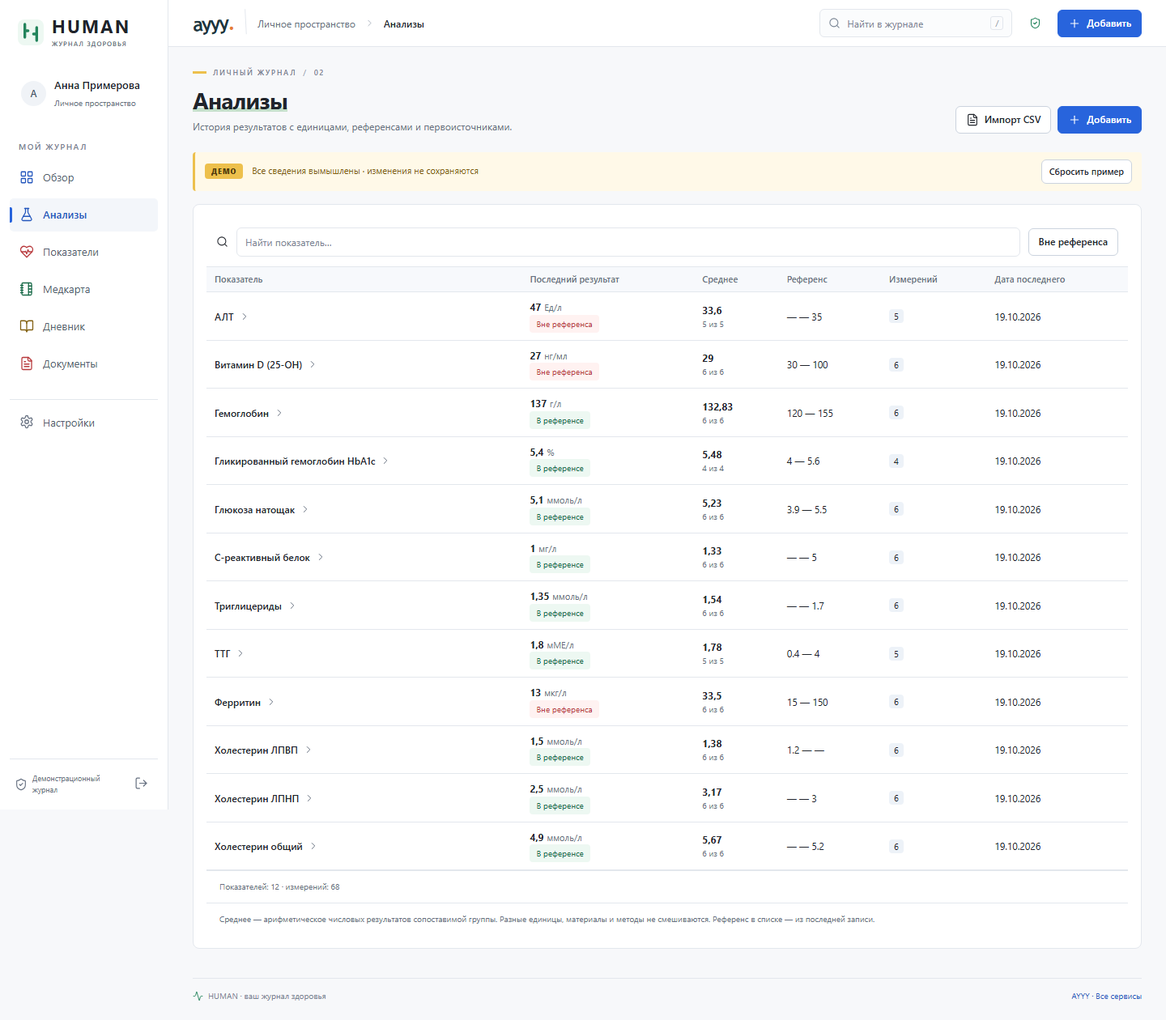
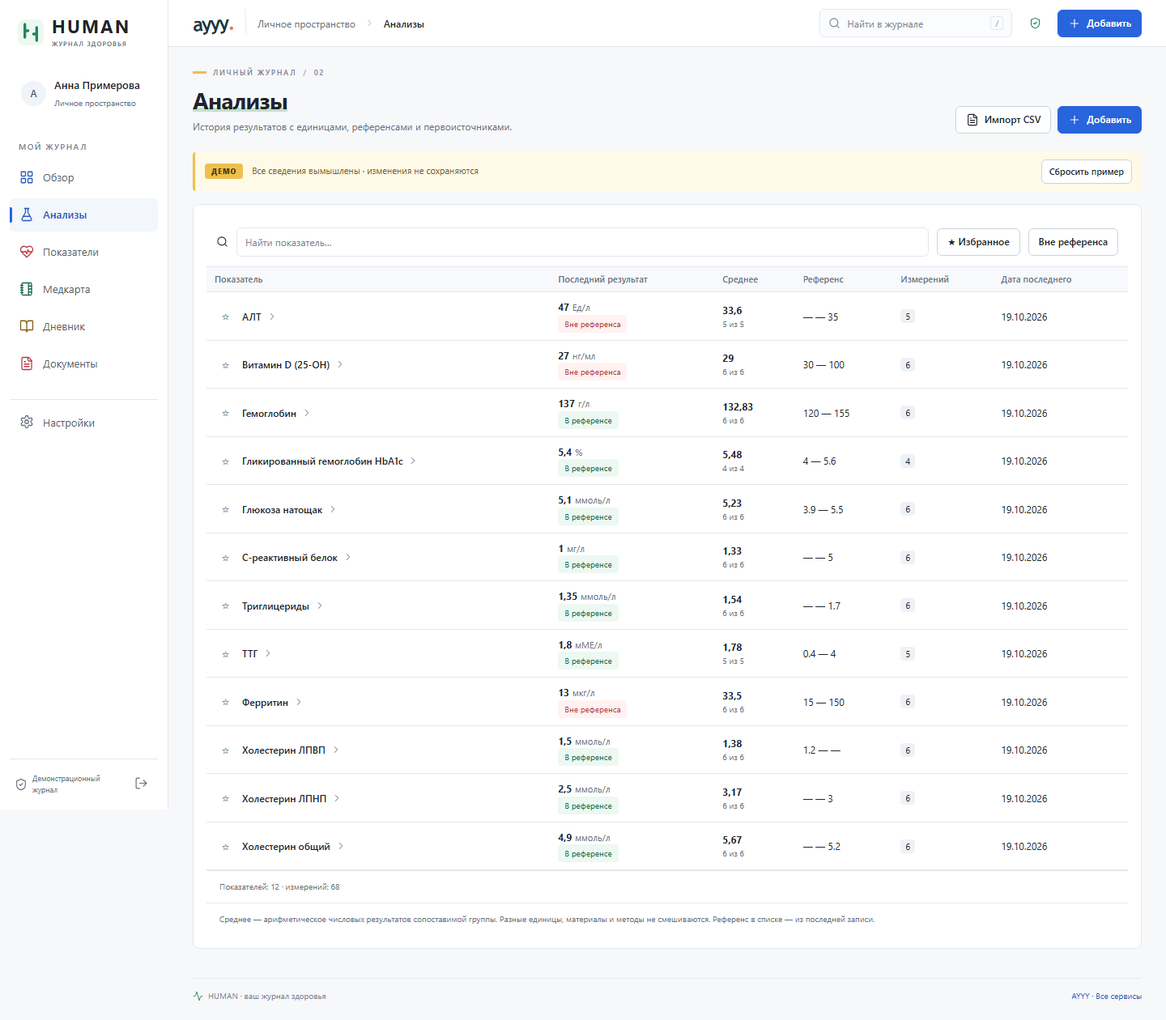
feat(health): persist analyte preferences and preserve partial source results

diff --git a/health/view.js b/health/view.js
@@ -58,7 +58,9 @@
       kind==='normal'?'В референсе':kind==='abnormal'?'Вне референса':'Без оценки');
   }
   function date(value){
-    if(!value)return '—';
+    if(!value)return 'Дата неизвестна';
+    if(/^\d{4}$/.test(value))return value+' г.';
+    if(/^\d{4}-\d{2}$/.test(value))return value.slice(5)+'.'+value.slice(0,4);
     if(!/^\d{4}-\d\d-\d\d$/.test(value))return value;
     const parsed=new Date(value+'T12:00:00');
     return Number.isNaN(+parsed)?value:parsed.toLocaleDateString('ru-RU');
@@ -93,7 +95,7 @@
       button('Удалить','remove',{class:'small danger','data-kind':kind,'data-id':item.id}));
   }
   function stats(state){
-    const d=state.doc,groups=M.groups(d.observations);
+    const d=state.doc,groups=M.groups(d.observations,d.analytePreferences);
     const overview=h('div',{});
     overview.append(title('Обзор здоровья','Показатели, документы и события — всё под рукой.'));
     overview.append(h('div',{class:'diary-overview'},
@@ -124,7 +126,7 @@
     if(!d.observations.length)recent.append(empty('Пока нет лабораторных данных','new-lab'));
     const attention=card('Требует внимания');attention.classList.add('overview-attention','tone-red');
     const abnormal=groups.filter(x=>x.status==='abnormal');
-    for(const g of abnormal.slice(0,3))attention.append(h('button',{class:'data-row','data-action':'open-group','data-key':g.key},h('span',{class:'attention-icon'},icon('Activity',16)),h('div',{},h('strong',{},g.name),h('small',{},date(g.latest.date))),h('div',{class:'row-result'},status(g.latest),h('strong',{},g.latest.value,h('small',{class:'unit'},g.unit)))));
+    for(const g of abnormal.slice(0,3))attention.append(h('button',{class:'data-row','data-action':'open-group','data-key':g.key},h('span',{class:'attention-icon'},icon('Activity',16)),h('div',{},h('strong',{},g.name),h('small',{},date(g.latest.date))),h('div',{class:'row-result'},status(g.effectiveLatest),h('strong',{},g.latest.value,h('small',{class:'unit'},g.unit)))));
     if(!abnormal.length)attention.append(empty('Нет записей, отмеченных по введённым референсам.'));
     attention.append(h('p',{class:'table-caption'},'Значения за пределами референсов, сохранённых вместе с результатами. Это не диагноз.'));
     const events=card('Последние события');events.classList.add('overview-events','tone-yellow');
@@ -196,10 +198,10 @@
     return section;
   }
   function labSection(state){
-    const all=M.groups(state.doc.observations);
+    const all=M.groups(state.doc.observations,state.doc.analytePreferences);
     const query=(state.search||'').toLocaleLowerCase('ru-RU');
     const filtered=all.filter(x=>(x.name+' '+x.unit+' '+x.latest.source)
-      .toLocaleLowerCase('ru-RU').includes(query)&&(!state.abnormalOnly||x.status==='abnormal'));
+      .toLocaleLowerCase('ru-RU').includes(query)&&(!state.abnormalOnly||x.status==='abnormal')&&(!state.favoritesOnly||x.preferences.favorite));
     const selected=filtered.find(x=>x.key===state.groupKey)||filtered[0];
     const section=h('div',{});
     section.append(title(state.groupKey&&selected?selected.name:'Анализы',
@@ -209,11 +211,11 @@
       placeholder:'Найти показатель…',value:state.search||''}));
     if(!state.groupKey){
       const box=card(null);box.classList.add('health-labs-card');
-      const search=section.querySelector('[data-search=labs]');if(search){search.remove();box.append(h('div',{class:'filters'},icon('Search',15),search,button('Вне референса','filter-abnormal',{class:'abnormal-filter','aria-pressed':String(!!state.abnormalOnly)})));}
+      const search=section.querySelector('[data-search=labs]');if(search){search.remove();box.append(h('div',{class:'filters'},icon('Search',15),search,button('★ Избранное','filter-favorites',{class:'favorites-filter','aria-pressed':String(!!state.favoritesOnly)}),button('Вне референса','filter-abnormal',{class:'abnormal-filter','aria-pressed':String(!!state.abnormalOnly)})));}
       const grouped=h('table',{class:'analyte-groups'},h('thead',{},h('tr',{},['Показатель','Последний результат','Среднее','Референс','Измерений','Дата последнего'].map(label=>h('th',{scope:'col'},label)))));
       const body=h('tbody',{});
-      for(const g of filtered){const values=g.rows.map(x=>M.number(x.value)).filter(x=>x!==null);const average=values.length?new Intl.NumberFormat('ru-RU',{maximumFractionDigits:2}).format(values.reduce((a,b)=>a+b,0)/values.length):'—';
-        body.append(h('tr',{},h('td',{},h('button',{class:'group-name','data-action':'open-group','data-key':g.key},h('strong',{},g.name),icon('ChevronRight',14))),h('td',{},h('strong',{},g.latest.value),h('span',{class:'unit'},g.unit),h('div',{},status(g.latest))),h('td',{},h('strong',{},average),h('small',{},values.length+' из '+g.rows.length)),h('td',{},g.latest.low||g.latest.high?(g.latest.low||'—')+' — '+(g.latest.high||'—'):'—'),h('td',{},h('span',{class:'measurement-count'},g.rows.length)),h('td',{},date(g.latest.date))));
+      for(const g of filtered){const values=M.chartRows(g.rows).map(x=>M.number(x.value));const average=values.length?new Intl.NumberFormat('ru-RU',{maximumFractionDigits:2}).format(values.reduce((a,b)=>a+b,0)/values.length):'—';
+        body.append(h('tr',{},h('td',{},h('div',{class:'group-name-cell'},button(g.preferences.favorite?'★':'☆','toggle-favorite',{'data-key':g.key,class:'favorite-toggle'+(g.preferences.favorite?' is-favorite':''),'aria-label':'Избранное: '+g.name,'aria-pressed':String(!!g.preferences.favorite)}),h('button',{class:'group-name','data-action':'open-group','data-key':g.key},h('strong',{},g.name),icon('ChevronRight',14)))),h('td',{},h('strong',{},g.latest.value),h('span',{class:'unit'},g.unit),h('div',{},status(g.effectiveLatest))),h('td',{},h('strong',{},average),h('small',{},values.length+' из '+g.rows.length)),h('td',{},g.effectiveLatest.low||g.effectiveLatest.high?(g.effectiveLatest.low||'—')+' — '+(g.effectiveLatest.high||'—'):'—'),h('td',{},h('span',{class:'measurement-count'},g.rows.length)),h('td',{},date(g.latest.date))));
       }
       grouped.append(body);box.append(filtered.length?h('div',{class:'table-wrap'},grouped):empty('Показателей по этим условиям нет.'));
       box.append(h('p',{class:'table-summary'},'Показателей: '+filtered.length+' · измерений: '+filtered.reduce((a,g)=>a+g.rows.length,0)),h('p',{class:'summary-footnote'},'Среднее — арифметическое числовых результатов сопоставимой группы. Разные единицы, материалы и методы не смешиваются. Референс в списке — из последней записи.'));
@@ -230,13 +232,20 @@
     page.append(h('section',{class:'analyte-statistics','aria-label':'Сводка показателя'},[
       ['blue','Activity','Последний результат',g.latest.value+' '+g.unit,date(g.latest.date)],
       ['green','TrendingUp','Среднее значение',fmt(average)+' '+g.unit,numeric.length+' из '+g.rows.length+' измерений'],
-      ['red','ShieldCheck','Референс последней записи',reference(g.latest),g.unit],
+      ['red','ShieldCheck',g.preferences.useReference?'Общий референс':'Референс последней записи',reference(g.effectiveLatest),g.unit],
       ['yellow','LayoutGrid','Всего измерений',g.rows.length,'Вся история показателя']
     ].map(([tone,glyph,label,value,note])=>{const svg=icon(glyph,22);svg.classList.add('stat-icon');return h('div',{class:'analyte-stat stat-'+tone},svg,h('div',{},h('small',{},label),h('strong',{class:tone==='red'?'reference-summary':''},value),h('small',{},note)));})));
     page.append(h('details',{class:'analyte-explanation'},h('summary',{},'Как читать эти данные'),h('p',{},'Среднее рассчитано по точным числовым результатам этой группы. Разные единицы, материалы и методы не смешиваются. Референсы сохранены у каждого измерения. Выберите точку или дату в таблице, чтобы увидеть её источник.')));
+    const preferences=g.preferences,settings=form('analyte-preferences',[
+      field('Единица','unit',g.unit,'select',[[g.unit,g.unit||'Не указана']]),
+      row(field('Нижняя граница','low',preferences.low??g.latest.low??''),field('Верхняя граница','high',preferences.high??g.latest.high??'')),
+      field('Референс графика','useReference',preferences.useReference?'yes':'no','select',[['no','Использовать исходные нормы каждой записи'],['yes','Применить общий референс к этой единице']]),
+      field('Пояснение','note',preferences.note||''),h('p',{class:'health-note'},'Исходные значения и нормы лабораторий сохраняются. Разные единицы, материалы и методы остаются отдельными группами.')
+    ],'Применить ко всей истории');settings.dataset.key=g.key;
+    page.append(h('details',{class:'analyte-settings'},h('summary',{},'Общие настройки показателя'),settings));
     const plot=card('Динамика',[chart(g,{selected:current.id,interactive:true}),h('p',{class:'chart-reference-note'},'Среднее: '+fmt(average)+' '+g.unit+' · '+numeric.length+' измерений')]);plot.classList.add('analyte-chart');
     const metadata=h('dl',{class:'metadata'});
-    for(const [label,value] of [['Дата',date(current.date)],['Результат',current.value+' '+current.unit],['Референс',reference(current)],['Источник',current.source],['Материал',current.material],['Метод',current.method],['Примечание',current.notes]])metadata.append(h('dt',{},label),h('dd',{},value||'Не указан'));
+    for(const [label,value] of [['Показатель в бланке',current.name],['Дата',date(current.date)],['Результат',current.value+' '+current.unit],['Референс',reference(current)],['Источник',current.source],['Материал',current.material],['Метод',current.method],['Примечание',current.notes]])metadata.append(h('dt',{},label),h('dd',{},value||'Не указан'));
     const source=card('Выбранное измерение',[status(current),metadata,button('Редактировать','edit',{'data-kind':'lab','data-id':current.id})]);source.classList.add('analyte-source');
     page.append(h('div',{class:'analyte-chart-layout'},plot,source));
     const history=card('История · '+g.rows.length,[table(['Дата','Значение','Референс','Источник','Действия'],g.rows.map(x=>[
@@ -245,7 +254,7 @@
     return section;
   }
   function chart(group,options={}){
-    const points=M.chartRows(group.rows);
+    const points=M.chartRows(group.rows).map(x=>M.referenceRow(x,group.preferences));
     if(!points.length)return empty('Для графика нужны числовые измерения');
     const values=points.map(x=>M.number(x.value));
     const refs=points.flatMap(x=>[M.number(x.low),M.number(x.high)]).filter(x=>x!==null);
@@ -288,7 +297,7 @@
     svgNode('text',{x:48,y:194,fill:'#627889','font-size':11},date(points[0].date));
     svgNode('text',{x:665,y:194,'text-anchor':'end',fill:'#627889','font-size':11},
       date(points[points.length-1].date));
-    return h('div',{class:'health-chart-wrap'},svg,refs.length?h('p',{class:'health-chart-note'},h('span',{class:'health-reference-key'}),'Референсы исходных записей'):null);
+    return h('div',{class:'health-chart-wrap'},svg,refs.length?h('p',{class:'health-chart-note'},h('span',{class:'health-reference-key'}),group.preferences?.useReference?'Общий референс показателя':'Референсы исходных записей'):null);
   }
   window.HumanView={h,icon,brand,button,card,title,empty,banner,status,date,form,field,row,table,
     buttons,stats,listSection,labSection,category:{

diff --git a/health/model.js b/health/model.js
@@ -17,6 +17,20 @@
     const n=Number(s);
     return Number.isFinite(n)?n:null;
   }
+  function observationDate(value,precision){
+    const raw=text(value,20),kind=precision||(/^\d{4}$/.test(raw)?'year':/^\d{4}-\d{2}$/.test(raw)?'month':'day');
+    if(kind==='unknown'){if(raw)throw new Error('Для неизвестной даты оставьте поле пустым.');return {date:'',datePrecision:kind};}
+    if(kind==='year'&&/^\d{4}$/.test(raw)&&Number(raw)>0)return {date:raw,datePrecision:kind};
+    if(kind==='month'&&/^\d{4}-\d{2}$/.test(raw)){isoDate(raw+'-01');return {date:raw,datePrecision:kind};}
+    if(kind==='day')return {date:isoDate(raw),datePrecision:kind};
+    throw new Error('Дата не соответствует выбранной точности.');
+  }
+  function checkPreferences(input,original={}){
+    const low=text(input.low,50),high=text(input.high,50);
+    if((low&&number(low)===null)||(high&&number(high)===null)||(low&&high&&number(low)>number(high)))throw new Error('Проверьте числовые границы референса.');
+    return {...original,low,high,unit:text(input.unit,50),note:text(input.note,2000),useReference:input.useReference==='yes',updatedAt:new Date().toISOString()};
+  }
+  function referenceRow(row,preferences){return preferences?.useReference&&preferences.unit===row.unit?{...row,low:preferences.low,high:preferences.high}:row;}
   function checkLab(input,original){
     const name=text(input.name,180),value=text(input.value,100);
     if(!name || !value)throw new Error('Название показателя и результат обязательны.');
@@ -24,7 +38,8 @@
     if((low && number(low)===null)||(high && number(high)===null))
       throw new Error('Референсы должны содержать числа или оставаться пустыми.');
     if(low&&high&&number(low)>number(high))throw new Error('Нижняя граница больше верхней.');
-    return {id:original?.id||id(),date:isoDate(input.date),name,value,
+    return {...original,id:original?.id||id(),...observationDate(input.date,input.datePrecision),name,value,
+      canonicalName:text(input.canonicalName,180),valueKind:number(value)!==null?'quantity':/^[<>≤≥]/.test(value)?'censored':/^[+-]?[\d.,]+\s*[-–]\s*[+-]?[\d.,]+$/.test(value)?'range':'qualitative',
       unit:text(input.unit,50),low,high,source:text(input.source,180),
       material:text(input.material,90),method:text(input.method,90),
       notes:text(input.notes,3000),createdAt:original?.createdAt||new Date().toISOString(),
@@ -66,19 +81,21 @@
       updatedAt:new Date().toISOString()};
   }
   function groupKey(r){
-    return [r.name,r.unit,r.material,r.method].map(s=>text(s).toLocaleLowerCase('ru-RU').replace(/\s+/g,' ')).join('\u001f');
+    return [r.canonicalName||r.name,r.unit,r.material,r.method].map(s=>text(s).toLocaleLowerCase('ru-RU').replace(/\s+/g,' ')).join('\u001f');
   }
-  function groups(records){
+  function groups(records,preferences={}){
     const map=new Map();
     for(const row of records){
       const key=groupKey(row);
-      if(!map.has(key))map.set(key,{key,name:row.name,unit:row.unit,rows:[]});
+      if(!map.has(key))map.set(key,{key,name:row.canonicalName||row.name,unit:row.unit,rows:[]});
       map.get(key).rows.push(row);
     }
     return [...map.values()].map(group=>{
       group.rows.sort((a,b)=>b.date.localeCompare(a.date)||b.updatedAt.localeCompare(a.updatedAt));
       group.latest=group.rows[0];
-      group.status=status(group.latest);
+      group.preferences=preferences[group.key]||{};
+      group.effectiveLatest=referenceRow(group.latest,group.preferences);
+      group.status=status(group.effectiveLatest);
       return group;
     }).sort((a,b)=>b.latest.date.localeCompare(a.latest.date)||a.name.localeCompare(b.name,'ru'));
   }
@@ -90,7 +107,7 @@
     return 'normal';
   }
   function chartRows(rows){
-    return rows.filter(row=>number(row.value)!==null&&/^\d{4}-\d\d-\d\d$/.test(row.date))
+    return rows.filter(row=>text(row.unit)&&number(row.value)!==null&&/^\d{4}-\d\d-\d\d$/.test(row.date))
       .slice().sort((a,b)=>a.date.localeCompare(b.date));
   }
   function recent(items,limit=6){
@@ -125,7 +142,7 @@
       value:['value','result','значение','результат'],unit:['unit','единица','ед.изм.'],
       low:['low','min','нижняя граница','мин'],high:['high','max','верхняя граница','макс'],
       source:['source','лаборатория','источник'],material:['material','материал'],
-      method:['method','метод'],notes:['notes','комментарий','примечание']
+      datePrecision:['dateprecision','точность даты'],canonicalName:['canonicalname','показатель в каталоге'],method:['method','метод'],notes:['notes','комментарий','примечание']
     };
     const header=all.shift().map(v=>v.trim().toLocaleLowerCase('ru-RU'));
     const column={};
@@ -141,6 +158,6 @@
     });
     return {records,errors};
   }
-  window.HumanModel={id,text,isoDate,number,checkLab,checkVital,checkMedical,checkMedication,
+  window.HumanModel={id,text,isoDate,number,observationDate,checkPreferences,referenceRow,checkLab,checkVital,checkMedical,checkMedication,
     checkDiary,groupKey,groups,status,chartRows,recent,parseCSV};
 })();

diff --git a/health/app.js b/health/app.js
@@ -215,8 +215,9 @@
     const x=kind==='profile'?state.doc.profile:(existing||{}),now=today(),f=V.field,r=V.row;
     let fields=[];
     if(kind==='lab')fields=[
-      r(f('Дата','date',x.date||now,'date'),f('Результат','value',x.value||'')),
-      f('Показатель','name',x.name||''),
+      r(f('Дата (ГГГГ-ММ-ДД, ГГГГ-ММ или ГГГГ)','date',existing?x.date:now),f('Точность даты','datePrecision',x.datePrecision||'day','select',[['day','День'],['month','Месяц'],['year','Год'],['unknown','Неизвестна']])),
+      f('Результат как в бланке','value',x.value||''),
+      f('Показатель в бланке','name',x.name||''),f('Показатель в каталоге (необязательно)','canonicalName',x.canonicalName||''),
       r(f('Единица','unit',x.unit||''),f('Лаборатория','source',x.source||'')),
       r(f('Референс от','low',x.low||''),f('Референс до','high',x.high||'')),
       r(f('Материал','material',x.material||''),f('Метод','method',x.method||'')),
@@ -508,6 +509,7 @@
         await S.select(local.id);await profileList();
         state.local=local;state.doc=null;state.key=null;state.picker=false;render();
       }else if(mode==='record')await recordSubmit(form);
+      else if(mode==='analyte-preferences'){const input=Object.fromEntries(new FormData(form).entries()),key=form.dataset.key;await mutate(d=>{d.analytePreferences??={};const old=d.analytePreferences[key]||{};d.revisions.push({id:M.id(),kind:'analyte-preferences',recordId:key,operation:'edit',previous:structuredClone(old),changedAt:new Date().toISOString()});d.analytePreferences[key]=M.checkPreferences(input,old);});toast('Настройки показателя сохранены.');}
       else if(mode==='profile')await profileSubmit(form);
       else if(mode==='connect')await connect(form);
     }catch(e){error(e);}
@@ -570,6 +572,8 @@
       if(action==='toggle-menu'){document.body.classList.toggle('health-menu-open');el.setAttribute('aria-expanded',String(document.body.classList.contains('health-menu-open')));}
       else if(action==='close-menu')document.body.classList.remove('health-menu-open');
       else if(action==='quick-add'){dialog.querySelector('#health-dialog-body').replaceChildren(V.h('div',{class:'health-modal-head'},V.h('h2',{},'Добавить запись'),V.button('×','close-dialog',{'aria-label':'Закрыть окно'})),V.h('div',{class:'health-modal-content health-quick-options'},[['Анализ','lab'],['Домашнее измерение','vital'],['Медицинская запись','medical'],['Препарат','medication'],['Запись дневника','diary'],['Документ','document']].map(([title,kind])=>V.button(title,'new-'+kind))));dialog.showModal();}
+      else if(action==='toggle-favorite'){const key=el.dataset.key;await mutate(d=>{d.analytePreferences??={};const old=d.analytePreferences[key]||{};d.analytePreferences[key]={...old,favorite:!old.favorite};});}
+      else if(action==='filter-favorites'){state.favoritesOnly=!state.favoritesOnly;render();}
       else if(action==='filter-abnormal'){state.abnormalOnly=!state.abnormalOnly;state.groupKey='';render();}
       else if(action==='select-observation'){state.observationId=el.dataset.id;render();}
       else if(action==='open-group'){state.abnormalOnly=false;state.observationId='';state.tab='lab';state.globalSearch='';state.search='';state.groupKey=el.dataset.key;render();}
@@ -582,7 +586,7 @@
       else if(action==='remove')await remove(el.dataset.kind,el.dataset.id);
       else if(action==='select-group'){
         const query=state.search.toLocaleLowerCase('ru-RU');
-        const all=M.groups(state.doc.observations).filter(x=>
+        const all=M.groups(state.doc.observations,state.doc.analytePreferences).filter(x=>
           (x.name+' '+x.unit+' '+x.latest.source).toLocaleLowerCase('ru-RU').includes(query));
         state.groupKey=all[Number(el.dataset.index)]?.key||'';
         render();

diff --git a/health/index.html b/health/index.html
@@ -11,7 +11,7 @@
   <link rel="stylesheet" href="./style.css?v=03062d62e54e">
   <link rel="stylesheet" href="./human.css?v=f25568b30218">
   <link rel="stylesheet" href="./human-labs.css?v=0f12f3512f2f">
-  <link rel="stylesheet" href="./human-adapter.css?v=b3aac5aa0454?v=health-workspace-logo-20261110">
+  <link rel="stylesheet" href="./human-adapter.css?v=b3aac5aa0454">
 </head>
 <body>
   <a class="health-skip" href="#health-root">К содержимому</a>
@@ -29,9 +29,9 @@
   <script src="./crypto.js?v=6c86ad1f417f" defer></script>
   <script src="./store.js?v=5f54801cba79" defer></script>
   <script src="./github.js?v=f8d34d46f0a8" defer></script>
-  <script src="./model.js?v=e7f744334096" defer></script>
-  <script src="./view.js?v=d8d911bd24ae?v=health-brand-split-20261110" defer></script>
+  <script src="./model.js?v=63f33009b6ae" defer></script>
+  <script src="./view.js?v=6cae46a15844" defer></script>
   <script src="./demo.js?v=785a1ed83c9f" defer></script>
-  <script src="./app.js?v=6d7ffa8dcac7?v=health-header-link-20261110" defer></script>
+  <script src="./app.js?v=35bda892e9b0" defer></script>
 </body>
 </html>

diff --git a/tests/health_github_live.py b/tests/health_github_live.py
@@ -1,0 +1,74 @@
+"""Opt-in real encrypted GitHub roundtrip. Uses gh credentials in memory only.
+
+Set HEALTH_GITHUB_TEST_REPO=i12309/TEST_TREE to explicitly authorize a temporary
+branch. Existing branches/data are untouched. No token or plaintext is published.
+"""
+import json, os, subprocess, uuid, mimetypes
+from pathlib import Path
+from urllib.parse import urlsplit
+from playwright.sync_api import sync_playwright
+
+ROOT=Path(__file__).resolve().parents[1]
+REPO=os.environ.get('HEALTH_GITHUB_TEST_REPO','')
+assert REPO=='i12309/TEST_TREE','Explicit test-repository opt-in required'
+
+def gh(path, payload=None, method=None):
+    args=['gh','api',path]
+    if method: args+=['--method',method]
+    if payload is not None: args+=['--input','-']
+    result=subprocess.run(args,input=json.dumps(payload) if payload is not None else None,capture_output=True,text=True,encoding='utf-8')
+    if result.returncode: raise RuntimeError('GitHub test setup/cleanup failed: '+path)
+    return json.loads(result.stdout) if result.stdout.strip() else None
+
+assert gh('repos/'+REPO)['private'] is True
+credential=subprocess.run(['gh','auth','token'],capture_output=True,text=True,check=True).stdout.strip()
+branch='test/health-browser-'+uuid.uuid4().hex[:12]
+# An independent root tree avoids inheriting any real vault from the default branch.
+tree=gh('repos/'+REPO+'/git/trees',{'tree':[{'path':'HEALTH_TEST.md','mode':'100644','type':'blob','content':'Temporary synthetic encrypted health roundtrip. No personal data.'}]})
+commit=gh('repos/'+REPO+'/git/commits',{'message':'test: synthetic health browser roundtrip','tree':tree['sha']})
+gh('repos/'+REPO+'/git/refs',{'ref':'refs/heads/'+branch,'sha':commit['sha']})
+print('Temporary branch:',branch,flush=True)
+try:
+ with sync_playwright() as pw:
+  browser=pw.chromium.launch()
+  def context():
+   ctx=browser.new_context()
+   def serve(route):
+    if route.request.url.startswith('https://api.github.com/'):
+     route.continue_();return
+    name=urlsplit(route.request.url).path.lstrip('/') or 'index.html';file=(ROOT/name).resolve()
+    if file.is_dir():file=file/'index.html'
+    if ROOT in file.parents and file.is_file():route.fulfill(body=file.read_bytes(),content_type=mimetypes.guess_type(file)[0] or 'text/plain')
+    else:route.abort()
+   ctx.route('**/*',serve)
+   page=ctx.new_page();page.goto('http://localhost:8877/health/');page.wait_for_function('!!window.HumanGithub')
+   return ctx,page
+  a,pa=context();b,pb=context()
+  repo={'owner':'i12309','repo':'TEST_TREE','branch':branch}
+  params={'token':credential,'repo':repo,'passphrase':'synthetic-roundtrip-passphrase'}
+  result=pa.evaluate('''async p=>{
+   const C=HumanCrypto,G=HumanGithub,M=HumanModel;G.token(p.token);await G.verify(p.repo);
+   const created=await C.create(p.passphrase);created.doc.profile.name='Synthetic roundtrip';
+   const record=M.checkLab({name:'Synthetic marker',date:'2026',datePrecision:'year',value:'< 0,1',unit:'mg'});
+   created.doc.observations.push(record);created.doc.analytePreferences={[M.groupKey(record)]:{favorite:true}};
+   window.testVault={...created,envelope:await C.seal(created.doc,created.key,created.envelope)};
+   return await G.write(p.repo,testVault.envelope,null);
+  }''',params)
+  print('PASS first browser wrote encrypted vault',result,flush=True)
+  restored=pb.evaluate('''async p=>{HumanGithub.token(p.token);const r=await HumanGithub.read(p.repo),v=await HumanCrypto.unlock(r.envelope,p.passphrase);window.testRemote=r;window.testOpened=v;return {name:v.doc.profile.name,value:v.doc.observations[0].value,date:v.doc.observations[0].date,favorite:Object.values(v.doc.analytePreferences)[0].favorite};}''',params)
+  assert restored=={'name':'Synthetic roundtrip','value':'< 0,1','date':'2026','favorite':True}
+  print('PASS second browser restored dates, source values and favorites',flush=True)
+  await_update=pb.evaluate('''async p=>{testOpened.doc.profile.notes='Synthetic second device update';const env=await HumanCrypto.seal(testOpened.doc,testOpened.key,testRemote.envelope);return HumanGithub.write(p.repo,env,testRemote.sha);}''',params)
+  conflict=pa.evaluate('''async p=>{try{await HumanGithub.write(p.repo,testVault.envelope,p.sha);return false;}catch(e){return e.message.includes('Конфликт');}}''',{**params,'sha':result})
+  assert conflict,'Stale SHA must not overwrite the other browser'
+  print('PASS stale first browser write rejected',flush=True)
+  item=gh('repos/'+REPO+'/contents/health-data/v1/vault.json?ref='+branch)
+  import base64
+  envelope=json.loads(base64.b64decode(item['content']))
+  assert envelope['format']=='ayyy-health-v1' and 'observations' not in envelope and 'profile' not in envelope
+  assert 'Synthetic' not in json.dumps(envelope)
+  print('PASS remote contains only encrypted envelope',flush=True)
+  browser.close()
+finally:
+ gh('repos/'+REPO+'/git/refs/heads/'+branch,method='DELETE')
+ print('Temporary test branch removed; existing repository data unchanged',flush=True)

diff --git a/tests/health_browser.py b/tests/health_browser.py
@@ -108,6 +108,20 @@ with sync_playwright() as pw:
  v.locator('#health-header [data-action=quick-add]').click();v.locator('#health-dialog [data-action=new-vital]').click();v.locator('[name=value]').fill('120/80');v.locator('[data-form=record] [type=submit]').click();v.locator('#health-dialog').wait_for(state='hidden')
  v.reload();v.wait_for_selector('[data-form=unlock]');v.locator('[data-form=unlock] [name=passphrase]').fill('synthetic-ui-passphrase');v.locator('[data-form=unlock] [type=submit]').click();v.wait_for_selector('.metric')
  v.locator('.sidebar button[data-tab=vital]').click();check('encrypted record survives reload','120/80' in v.locator('#health-root').inner_text())
+ # Preferences, classification and partial dates roundtrip through the actual encrypted UI.
+ v.locator('.sidebar button[data-tab=lab]').click();v.locator('[data-action=new-lab]').click()
+ for name,value in {'name':'Synthetic source marker','canonicalName':'Synthetic catalog marker','value':'< 0,1','unit':'mg','date':'2026'}.items():v.locator('#health-dialog [name='+name+']').fill(value)
+ v.locator('#health-dialog [name=datePrecision]').select_option('year');v.locator('#health-dialog [type=submit]').click();v.locator('#health-dialog').wait_for(state='hidden')
+ check('classification displays catalog name',v.locator('.group-name').inner_text()=='Synthetic catalog marker')
+ v.locator('[data-action=toggle-favorite]').click();v.locator('[data-action=filter-favorites]').click();check('favorite filter keeps selected marker',v.locator('.analyte-groups tbody tr').count()==1)
+ v.locator('.group-name').click();v.locator('.analyte-settings summary').click()
+ v.locator('[data-form=analyte-preferences] [name=useReference]').select_option('yes');v.locator('[data-form=analyte-preferences] [name=low]').fill('0');v.locator('[data-form=analyte-preferences] [name=high]').fill('2');v.locator('[data-form=analyte-preferences] [type=submit]').click()
+ check('censored yearly result never becomes a graph point',v.locator('.analyte-chart circle').count()==0)
+ v.reload();v.wait_for_selector('[data-form=unlock]');v.locator('[name=passphrase]').fill('synthetic-ui-passphrase');v.locator('[data-form=unlock] [type=submit]').click();v.wait_for_selector('.metric')
+ v.locator('.sidebar button[data-tab=lab]').click();check('favorite survives encrypted reload',v.locator('[data-action=toggle-favorite]').get_attribute('aria-pressed')=='true')
+ v.locator('.group-name').click();v.locator('.analyte-settings summary').click()
+ check('common reference survives encrypted reload',v.locator('[name=high]').input_value()=='2' and v.locator('[name=useReference]').input_value()=='yes')
+ check('original source and year retained','Synthetic source marker' in v.locator('.analyte-source').inner_text() and '2026 г.' in v.locator('.analyte-source').inner_text())
  p.goto(BASE+'#health/demo');frame=p.frame_locator('#ayyy-health-frame');frame.locator('.metric').first.wait_for()
  check('portal route uses HUMAN workspace',frame.locator('.sidebar .brand-copy>span').inner_text()=='HUMAN')
  check('health styles remain inside iframe',p.locator('#health-sidebar').count()==0)

diff --git a/docs/HEALTH_HUMAN_UI.md b/docs/HEALTH_HUMAN_UI.md
@@ -1,5 +1,22 @@
 # Оформление здоровья из HUMAN
 
+## Продолжение переноса: анализы и настоящий GitHub
+
+В зашифрованный документ добавлено необязательное поле `analytePreferences`: избранное и настройки референса для совместимой группы. Старые журналы открываются без этого поля. Общий референс используется только для совпадающей единицы и не меняет нормы исходного бланка. Изменения настроек попадают в историю правок.
+
+Анализы сохраняют исходное название и отдельное название каталога. Допускаются даты с точностью до дня, месяца, года и неизвестная дата. Пределы, диапазоны и качественные результаты сохраняются строкой; в числовые графики и среднее входят только точные числа с известным днём и единицей.
+
+Проверки: 11 тестов модели/демо, 113 браузерных проверок. `tests/health_github_live.py` отдельно проверен на приватном `i12309/TEST_TREE`: запись зашифрованного файла, восстановление во втором изолированном браузере, отклонение устаревшего SHA. Временная ветка `test/health-browser-4634a6d4615e` удалена после проверки. Основная ветка и имеющиеся данные тестового репозитория не менялись. Этот тест проверяет реальный транспорт и шифрование; полная проверка пользовательского сценария синхронизации ещё входит в оставшуюся работу.
+
+Запуск живой проверки требует явного выбора тестового репозитория и действующей авторизации GitHub CLI. Токен читается только в память процесса:
+
+```powershell
+$env:HEALTH_GITHUB_TEST_REPO='i12309/TEST_TREE'
+python -X utf8 tests/health_github_live.py
+```
+
+Полная цель переноса остаётся открытой: просмотр/импорт PDF и XLSX с подтверждением, миграция исходного HUMAN, расширенные дневники и медкарта, приёмы/напоминания, генетические записи, восстановление вложений и пользовательские сценарии конфликтов между устройствами ещё требуют реализации и проверки.
+
 Модуль `health/` использует оформление проекта `C:\CODE\human`: исходные `web/src/style.css` и `web/src/labs/labs.css` перенесены в `human.css` и `human-labs.css`, логотип — из `web/public/icon.svg`. Локальный SVG-спрайт содержит используемые значки Lucide; лицензия находится в `health/LUCIDE-LICENSE.txt`.
 
 Воспроизведены боковая панель 208 px, верхняя панель 58 px, типографика, цвета, отступы, карточки обзора, таблица групп анализов, графики, формы и мобильная навигация. `human-adapter.css` связывает эти стили с DOM браузерной версии. Поиск в шапке работает по текущему открытому профилю; кнопка «Добавить» открывает выбор существующих типов записей.
